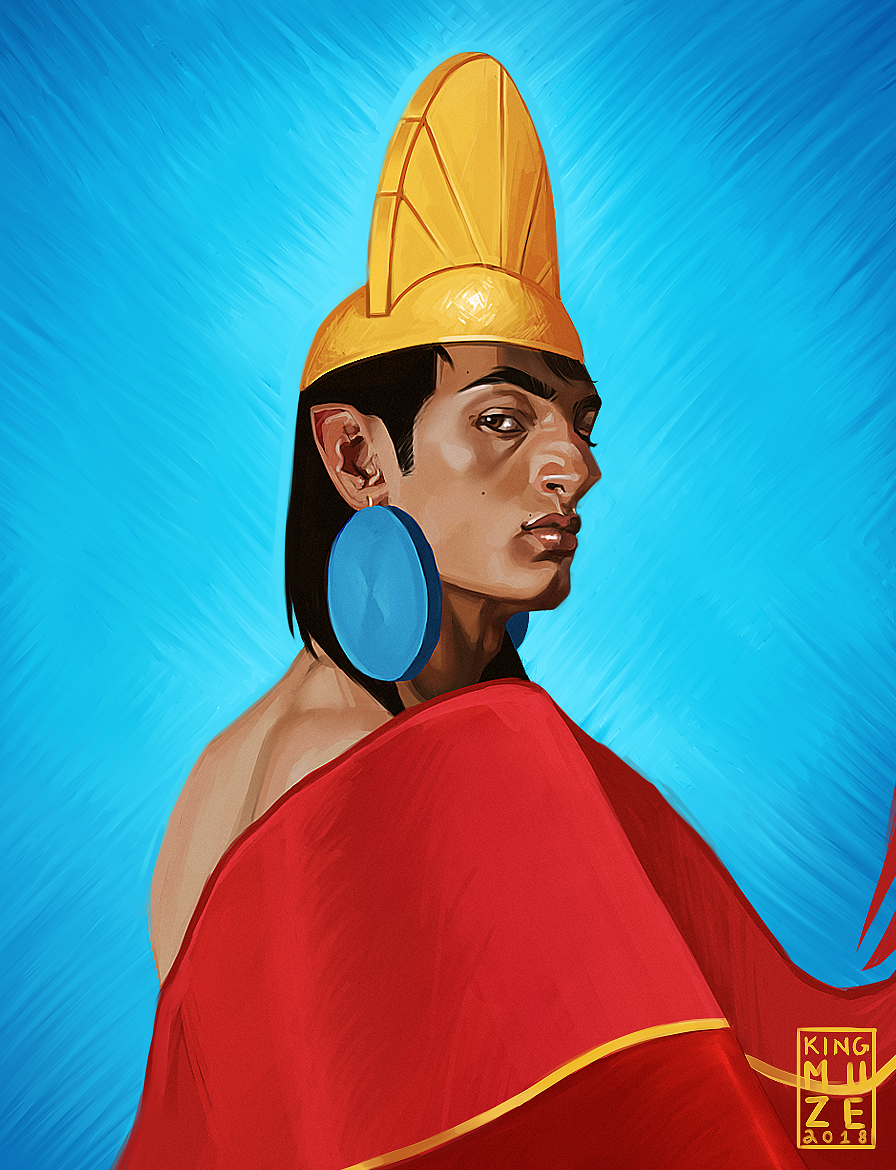
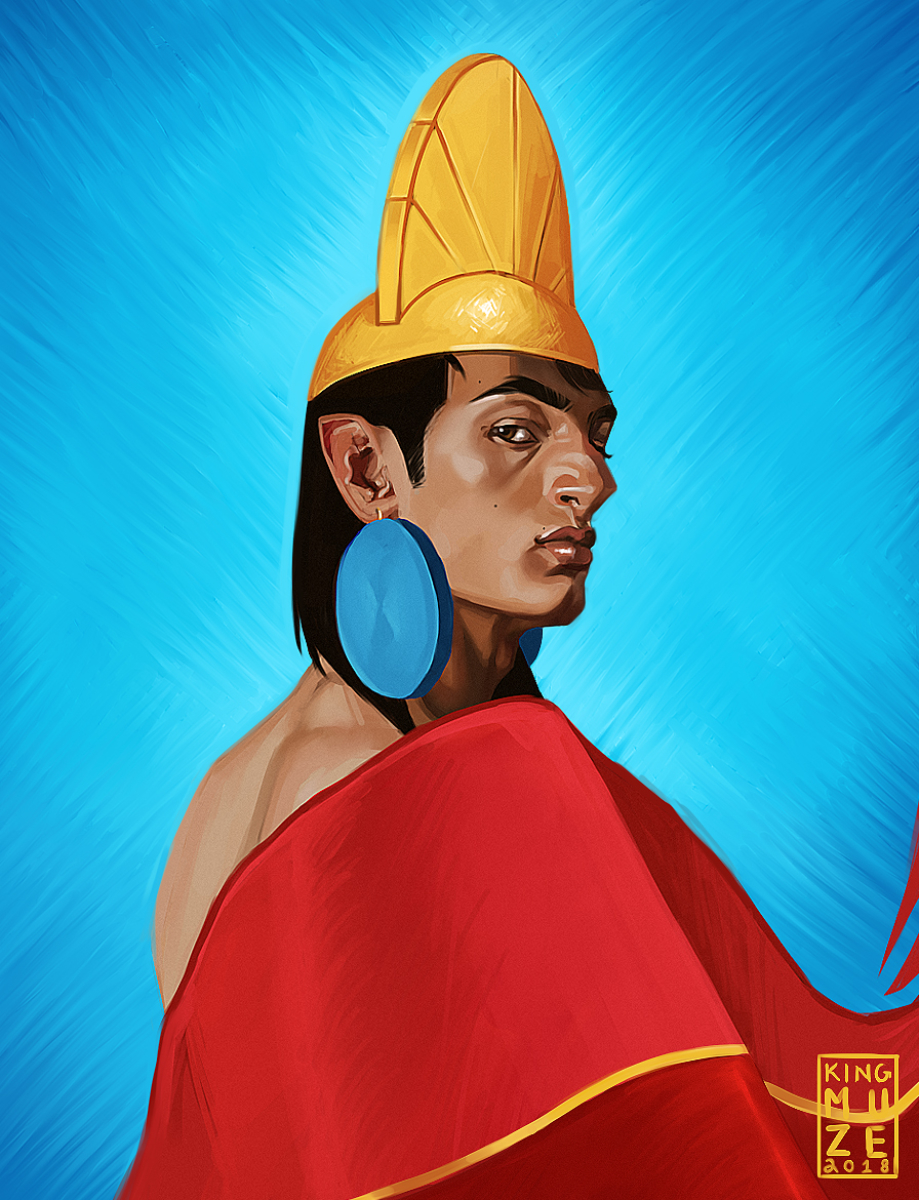
Adjusted the image file sizes for fasting loading times!

diff --git a/LESS/home.less b/LESS/home.less
@@ -107,6 +107,7 @@ html {
     img {
         width: 500px;
         height: 500px;
+        filter: grayscale(100%);
         display: flex;
         position: absolute;
         margin: auto;
@@ -116,6 +117,7 @@ html {
         bottom: 0;
         align-self: center;
         opacity: 1;
+        transition: .3s ease-in-out;
         animation: heroimg 3s ease-in-out;
         animation-direction: alternate-reverse;
 
@@ -125,6 +127,11 @@ html {
             from {opacity: 1;}
             to {opacity: 0;}
         }
+    }
+
+    img:hover {
+        transition: .3s ease-in-out;
+        filter: grayscale(0%);
     }
 
     .hero-title {

diff --git a/css/index.css b/css/index.css
@@ -91,6 +91,7 @@ html {
 .main-hero img {
   width: 500px;
   height: 500px;
+  filter: grayscale(100%);
   display: flex;
   position: absolute;
   margin: auto;
@@ -100,6 +101,7 @@ html {
   bottom: 0;
   align-self: center;
   opacity: 1;
+  transition: 0.3s ease-in-out;
   animation: heroimg 3s ease-in-out;
   animation-direction: alternate-reverse;
 }
@@ -116,6 +118,10 @@ html {
   to {
     opacity: 0;
   }
+}
+.main-hero img:hover {
+  transition: 0.3s ease-in-out;
+  filter: grayscale(0%);
 }
 .main-hero .hero-title {
   width: 500px;

diff --git a/index.html b/index.html
@@ -93,7 +93,7 @@
       <div class="artwork">
         <img src="assets/images/Kuzco-background.jpg">
         <img src="assets/images/Trapical-Boi-Unedited.jpg">
-        <img src="assets/images/Zeus-Artwork.png">
+        <img src="assets/images/Zeus-Artwork.jpg">
         <img src="assets/images/boy-3.jpg">
         <img src="assets/images/high-rez-square.jpg">
         <img src="assets/images/kehlani.jpg">
